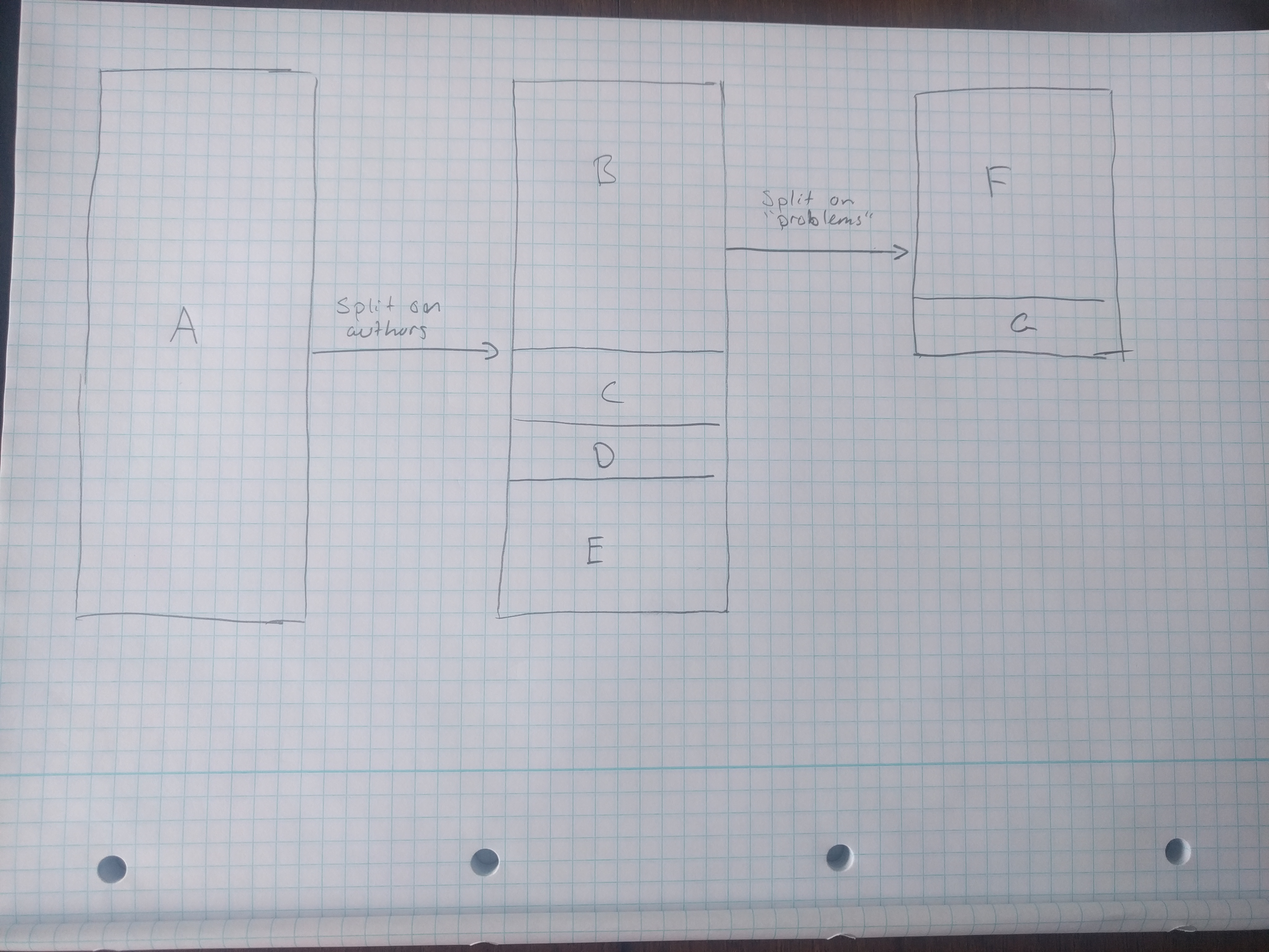
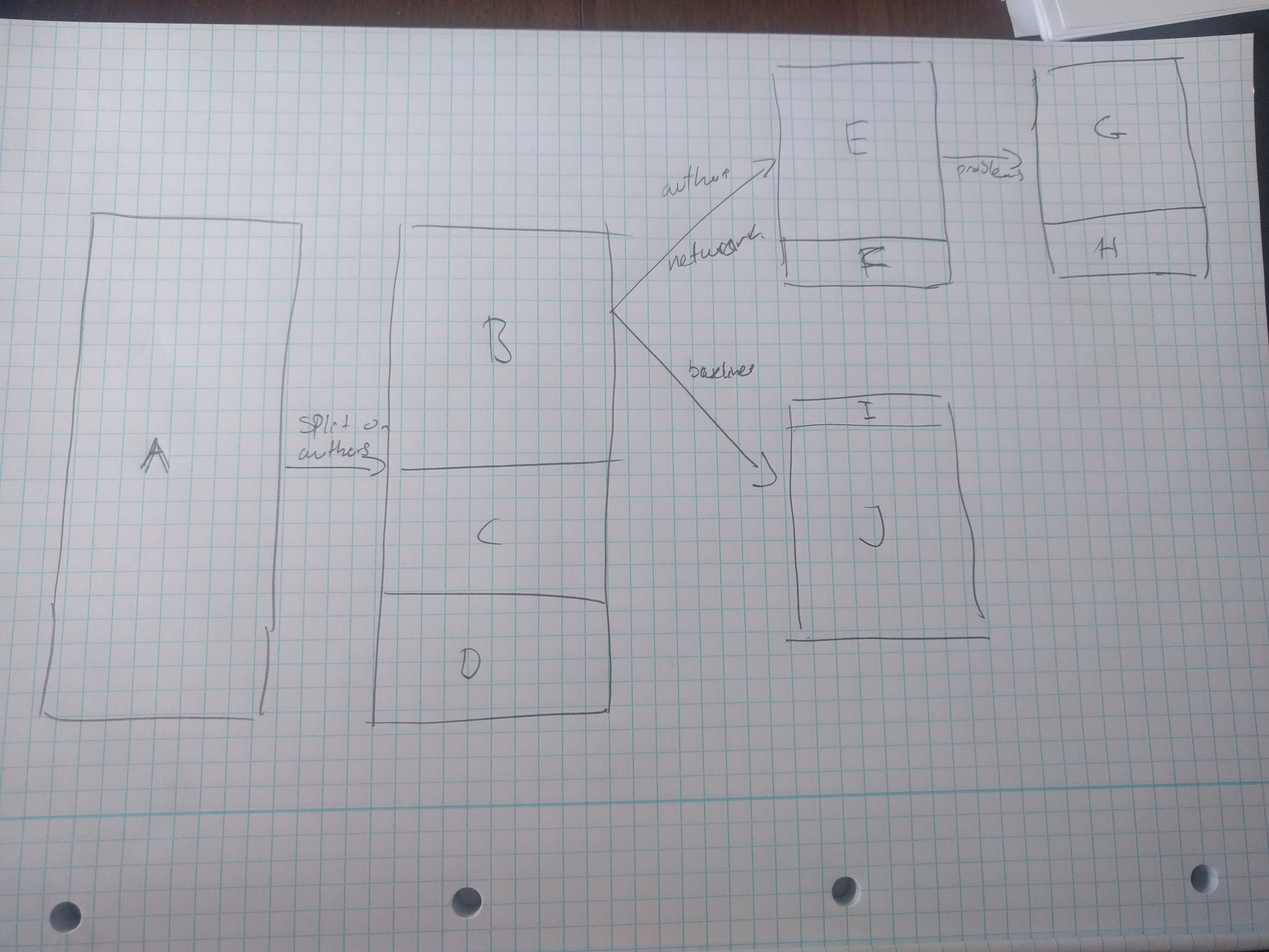
Change data split to be different for neural networks and baselines

diff --git a/report/data.tex b/report/data.tex
@@ -91,28 +91,29 @@ We have shown an illustration of the splits we have made in Figure
 
 \begin{enumerate}[A)]
     \item The original dataset consisting of TODO authors.
-    \item The training dataset used to train our Siamese Neural Networks and
-        choosing hyperparameters for our baseline methods.
-    \item Dataset for choosing hyperparameters for the prediction system and
-        thresholds for baseline methods.
-    \item Dataset for giving an unbiased estimate of the final test error for
-        both our networks and our baseline methods.
-    \item Test set to give an unbiased estimate of performance in the real
-        world.
-    \item Dataset of training "problems" for the neural network. The problems
-        that are actually shown to the network during training.
-    \item Dataset of validation "problems" for the neural network. The problems
-        are not shown to the network during training. The network we choose to
-        use is the one from the epoch where the error on this dataset is
-        minimized.
+    \item Training dataset used to train all networks and choose all
+        hyperparameters.
+    \item Validation set used to give an unbiased estimate of the final test
+        results.
+    \item Test dataset used to give the final results we present.
+    \item Dataset used during neural networks training.
+    \item Dataset used to find hyperparamters for the prediction system.
+    \item Dataset used for the actual training of the neural network. Consist
+        not of authors but of a set of "problems".
+    \item Dataset used to give a validation accuracy during training. We use the
+        network that has the highest validation accuracy.
+    \item Dataset used for feature selection for the baseline methods.
+    \item Dataset used to select parameters for the baseline methods.
 \end{enumerate}
 
 \begin{figure}
     \centering
     \textbf{Illustration of Datasets}\par\medskip
     \includegraphics[width=\textwidth]{./pictures/data/data_split.jpg}
-    \caption{Shows how we have split the dataset we are given. The first split
-        is a split on percentages of authors in each subsequent dataset and the
-        second split is on the number of "problems" in each subsequent dataset.}
+    \caption{Shows how we have split the dataset we are given. Most of the
+        splits are performed on authors such that all of an authors texts are
+        in the same dataset. The only split that is not performed on that basis
+        is the split of the $E$ dataset to $G$ and $H$. That split is performed
+        on problem instances and not on authors.}
     \label{fig:data_split}
 \end{figure}
